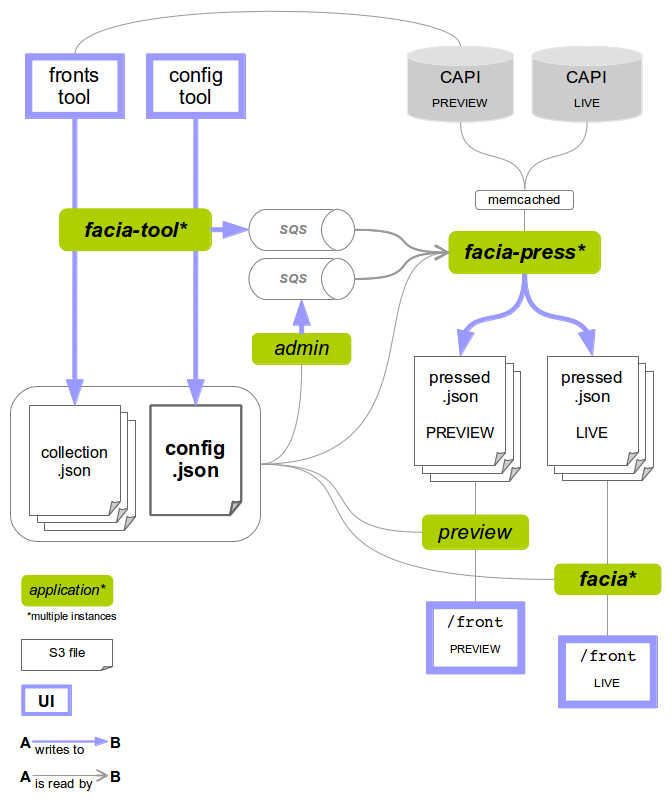
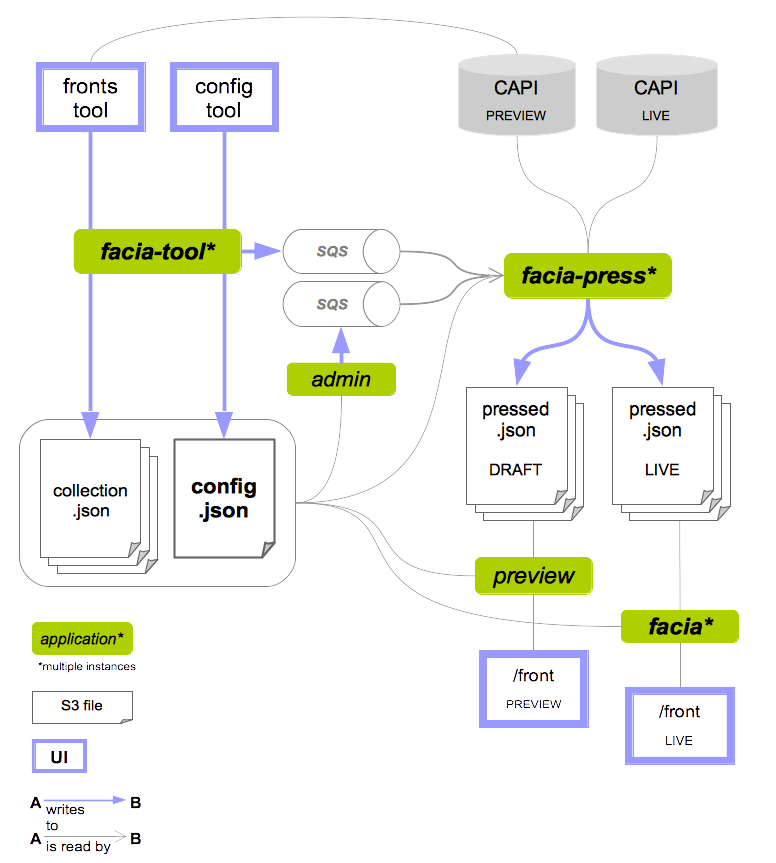
Update facia architecture documentation

diff --git a/docs/02-architecture/02-fronts-architecture.md b/docs/02-architecture/02-fronts-architecture.md
@@ -1,69 +1,110 @@
-# Fronts Architecture
+# Fronts architecture
 
 ![Fronts architecture](images/fronts-archirecture.png)
 
-The goal of the Fronts architecture is serve each front via a _single_ blocking call to a persitence layer.
+Rendering a front requires to fetch a lot of information from multiple sources (CAPI, Fronts config, Fronts collections). In order to avoid doing this grueling work inline when an user request is received, all data necessary to render a front is prefetched and aggregated in a single location (S3). 
 
-The system produces static aggregation files, offline, one for each front (`pressed.json`). Each file contains all the content required for one front; it is a complete snapshot of its required ContentApi data, structured by collection, and overlaid by the temporary fronts-only article metdata. Each fulfills the single call made by the Facia app in order to service a request for that front.
+In a nutshell:
+- [Facia press](#facia-press): for each front, fetch all necessary data, aggregate it and store it into S3
+- [Facia](#facia): read the aggregated data from S3 and render the front
 
-The global list of defined fronts - and the definitions of the collections on those fronts - is held in a single configuration file (`config.json`). This file is edited using the Configuration Tool. It is polled and referred to by each component in the architecture. 
+## Facia Press
+It is not an user facing service, it processes events published to queues.
+There are 2 queues:
+- one queue populated by a cron job running in the Admin app.
+- one queue where the Fronts tool (fronts.gutools.co.uk) publishes events to when a front is being updated.
+The cron job is very important since content for a front can be coming from CAPI and change without any update from the Fronts tool.
 
-The running order of articles in each collection - and various tweaks to those articles - are represented in multiple `collection.json` files. These are individually edited using the Fronts Tool and persisted to S3. These `collection.json` files dictate which articles need to be requested from the ContentApi during the production of each front's `pressed.json` files.
+### Pressing a front:
+Reacting to a new event published to the queues described above Facia-press then:
 
-As soon as a collection is edited, its id is added to a queue consumed the Presser, which will re-create a `pressed.json` file for any front containing that collection. Additionally, each front is periodically queued for re-pressing by the Admin app; fronts have differential rates of periodic re-pressing, to reflect their differing priorities.
+1. Get the collections that compose the front by fetching the Fronts config at `s3://facia-tool-store/STAGE/frontsapi/config/config.json` in the CMS Fronts account. This file is edited using the Configuration Tool
 
-The `pressed.json` files - one for each front - are persisted to S3. Both preview and live versions are produced.
+Example of a front config:
+```
+...
+"uk/business": {
+    "collections": [
+        "uk/business/regular-stories",
+        "uk/business/feature-stories",
+        "12554364-5a48-4e1a-a931-4dbcd144a12a",
+        "98257c5b-f7af-4238-994e-edfb17e3b16e",
+        "7aa73028-4e76-48d7-a44e-b62a15d36a65",
+        "uk/business/most-viewed/regular-stories",
+        "b5058768-e4a8-4e37-a61e-5f8e4df7f8fc"
+    ],
+    "webTitle": "Economy",
+    "title": "Latest financial, market & economic news and analysis | Business",
+    "description": "Latest financial, market &amp; economic news and analysis from The Guardian"
+}
+...
+```
 
-## Service Level Metrics & Alerts
+In the same file, here is an example of one collection config
+```
+"12554364-5a48-4e1a-a931-4dbcd144a12a": {
+    "displayName": "multimedia",
+    "type": "fixed/small/slow-I"
+}
+```
+Note: 
+- A collection type correspond to its layout.
+- Facia-press is using the [Facia scala client](https://github.com/guardian/facia-scala-client) to interact with the data store in the CMS Fronts bucket. (No direct call to S3)
 
-A large number of ContentApi requests are made in order to produce each front's `pressed.json` file. Due to this dependency, the Presser is the point in the architecture that has the most potential for failure. The metrics and alerts relate principally to its ongoing ability to produce `pressed.json` files.
+2. Get the curated stories/content for each collections of the fronts by fetching the collection data files at `s3://facia-tool-store/STAGE/frontsapi/collection/COLLECTION/ID/collection.json` in the CMS Fronts account. This file is edited using the Fronts Tool
 
-Some of the metrics are to designed to identify terminally unhealthy processes. Others are informational and indicate problems in the broader network (notably ContentApi). Others monitor the speed at which updates travel through the architecture.
+Each collection would contain the `id` and `metadata` for all their running stories that have been curated by editors using the Fronts tool.
+For each story, Facia-Press also fetches content details via CAPI
 
-### Succesive press failures - MANUAL presser (facia-tool)
+3. Get backfilled content.
 
-* __Detail__ : immediately after a collection is edited within the Fronts Editor, the Presser is invoked to re-create the `pressed.json` files for any front containing that collection.
+A collection can contain curated content (picked by editors using the Fronts tools) but can also be filled with stories coming from CAPI.  This can be configured using the Fronts tools.
 
-* __Metrics__  : if the number of *consecutive* failures of the Presser to produce `pressed.json` files exceeds N, the healthcheck fails. The failure count is reset by any successful pressing. 
+4. Get treats content
 
-* __Consequence__ : Instance terminates.
+A treat is a link that can be shown on the website in the bottom left corner of a collection container.
 
-### Succesive press failures - CRON presser (facia-press)
+5. Get SEO and properties
 
-* __Detail__ : every three minutes, the Admin app puts the ids of every front on an SQS queue. These are pulled in bunches (of up to 10) every 10 seconds by Presser instances, and `pressed.json` files are re-created for each front.
+This is an additional request to CAPI to fetch SEO and other metadata for the front page
 
-* __Metrics__  : if the number of *consecutive* failures of the Presser to produce `pressed.json` files exceeds N, the healthcheck fails. The failure count is reset by any successful pressing. 
+6. Finally aggregate all the data fetched in the previous steps and store the result in its json form in S3 (`s3://aws-frontend-store/STAGE/frontsapi/pressed/live/FRONTS/fapi/pressed.json in Frontend account`)
 
-* __Consequence__ : Instance terminates.
+## Facia
 
-### Statictical press failures - CRON presser (facia-press)
+As mentioned above when Facia receive a request for a front, it:
 
-* __Detail__ : due to momentary ContentApi unavailability or increased latency somewhere in the network - pressing will on occasion fail. Above a certain frequency, these failures should be considered as indicative of a operational issue.   
+1. fetches the "pressed" data from S3 (`s3://aws-frontend-store/STAGE/frontsapi/pressed/live/FRONTS/fapi/pressed.json in Frontend account`)
 
-* __Metrics__  : 50 failures within 15 minutes, monitored in CloudWatch.
+2. renders the front.
 
-* __Consequence__ : PagerDuty alarm
+Each front collection would be rendered into a `container`. A container is always full-width.
 
-### Statictical press failures - MANUAL presser (facia-tool)
+The collection type (ex: `fixed/medium/slow-VI`) would decide the type and layout of the container. See [here](https://github.com/guardian/frontend/blob/master/common/app/slices/FixedContainers.scala#L79) and [here](https://github.com/guardian/frontend/blob/master/common/app/slices/Container.scala#L9)
 
-* __Detail__ : due to momentary ContentApi unavailability or increased latency somewhere in the network - pressing will on occasion fail. Above a certain frequency, these failures should be considered as indicative of a operational issue.   
+Each container is composed of `slices` (aka "rows"). Each [Slice definition](https://github.com/guardian/frontend/blob/master/common/app/slices/Slice.scala) specifies columns info and css classname.
 
-* __Metrics__  : 50 failures within 15 minutes, monitored in CloudWatch. 
+Each row would contained cards.
 
-* __Consequence__ : PagerDuty alarm
+A card displays the information of one story/content.
 
-### ContentAPI invalid responses
+## Glossary:
 
-* __Detail__ : the Presser (and also the fronts tools) are dependent on ContentApi results being well-formed. Occasionally ContentApi returns intermittently malformed results.
+Here is the defition of a few words and expression related to fronts:
 
-* __Metrics__  : (a) 50 malformed results within 15 minutes, monitored in CloudWatch; (b) a single malformed result monitored by the facia-tool UI.
+_Snap_:
+A way to include arbitrary content into a collection (rather than a story). 
+A snap can be a link (often used to show an interactive on the front) or dynamic content (latest story for given tag)
 
-* __Consequence__ : (a) PagerDuty alarm; (b) a "red" alert in the UI with an option to "try again".
+_Trasher_:
+A type of container which contain a single full-width element
 
-### On edit, press within 10 seconds (not incl. cache time)
+_Dynamo_:
+A type of container often use to highlight a huge story. It's better known in the codebase as the `dynamic/package` collection type.
 
-* __Detail__ : The end-to-end process from invoking the Presser to producing a `pressed.json` file - after a collection is manually edited - should be under 10 seconds. (It typically takes about 3 seconds under normal network conditions.)
+_Groups_:
+A way to further tweak the layout of a collection. Dynamic collection can have multiple groups (standard/snaps or huge/veryBig/big/standard). Depending of the group a story/content is in, the layout of the container would be slightly altered.
 
-* __Metric__  : the difference between the most recent timestamp of a front's various `collection.json` files, and the timestamp of that front's `pressed.json` file. This is checked 10 seconds after any edit; the result itself should be below 10 seconds.
+## More
 
-* __Consequence__ : if the metric exceeds 10 seconds, an "orange" alert appears in the tool UI with an option to "try again". The condition occurs on occasion due to momentary high latency somewhere in network, and generally does not reproduce itself on retry.
+- [Facia Level Metrics & Alerts](facia/facia-monitoring.md)

diff --git a/docs/02-architecture/facia/facia-monitoring.md b/docs/02-architecture/facia/facia-monitoring.md
@@ -1,0 +1,53 @@
+# Facia Level Metrics & Alerts
+
+A large number of ContentApi requests are made in order to produce each front's `pressed.json` file. Due to this dependency, the Presser is the point in the architecture that has the most potential for failure. The metrics and alerts relate principally to its ongoing ability to produce `pressed.json` files.
+
+Some of the metrics are to designed to identify terminally unhealthy processes. Others are informational and indicate problems in the broader network (notably ContentApi). Others monitor the speed at which updates travel through the architecture.
+
+## Succesive press failures - MANUAL presser (facia-tool)
+
+* __Detail__ : immediately after a collection is edited within the Fronts Editor, the Presser is invoked to re-create the `pressed.json` files for any front containing that collection.
+
+* __Metrics__  : if the number of *consecutive* failures of the Presser to produce `pressed.json` files exceeds N, the healthcheck fails. The failure count is reset by any successful pressing. 
+
+* __Consequence__ : Instance terminates.
+
+## Succesive press failures - CRON presser (facia-press)
+
+* __Detail__ : every three minutes, the Admin app puts the ids of every front on an SQS queue. These are pulled in bunches (of up to 10) every 10 seconds by Presser instances, and `pressed.json` files are re-created for each front.
+
+* __Metrics__  : if the number of *consecutive* failures of the Presser to produce `pressed.json` files exceeds N, the healthcheck fails. The failure count is reset by any successful pressing. 
+
+* __Consequence__ : Instance terminates.
+
+## Statictical press failures - CRON presser (facia-press)
+
+* __Detail__ : due to momentary ContentApi unavailability or increased latency somewhere in the network - pressing will on occasion fail. Above a certain frequency, these failures should be considered as indicative of a operational issue.   
+
+* __Metrics__  : 50 failures within 15 minutes, monitored in CloudWatch.
+
+* __Consequence__ : PagerDuty alarm
+
+## Statictical press failures - MANUAL presser (facia-tool)
+
+* __Detail__ : due to momentary ContentApi unavailability or increased latency somewhere in the network - pressing will on occasion fail. Above a certain frequency, these failures should be considered as indicative of a operational issue.   
+
+* __Metrics__  : 50 failures within 15 minutes, monitored in CloudWatch. 
+
+* __Consequence__ : PagerDuty alarm
+
+## ContentAPI invalid responses
+
+* __Detail__ : the Presser (and also the fronts tools) are dependent on ContentApi results being well-formed. Occasionally ContentApi returns intermittently malformed results.
+
+* __Metrics__  : (a) 50 malformed results within 15 minutes, monitored in CloudWatch; (b) a single malformed result monitored by the facia-tool UI.
+
+* __Consequence__ : (a) PagerDuty alarm; (b) a "red" alert in the UI with an option to "try again".
+
+### On edit, press within 10 seconds (not incl. cache time)
+
+* __Detail__ : The end-to-end process from invoking the Presser to producing a `pressed.json` file - after a collection is manually edited - should be under 10 seconds. (It typically takes about 3 seconds under normal network conditions.)
+
+* __Metric__  : the difference between the most recent timestamp of a front's various `collection.json` files, and the timestamp of that front's `pressed.json` file. This is checked 10 seconds after any edit; the result itself should be below 10 seconds.
+
+* __Consequence__ : if the metric exceeds 10 seconds, an "orange" alert appears in the tool UI with an option to "try again". The condition occurs on occasion due to momentary high latency somewhere in network, and generally does not reproduce itself on retry.

diff --git a/docs/README.md b/docs/README.md
@@ -12,7 +12,7 @@
 
 ## [Architecture](02-architecture/)
 - [The different applications composing the Guardian website](02-architecture/01-applications-architecture.md)
-- [Fronts Architecture](02-architecture/02-fronts-architecture.md)
+- [Fronts architecture](02-architecture/02-fronts-architecture.md)
 - [Libraries we use](02-architecture/03-libraries-we-use.md)
 - [Archiving](02-architecture/04-archiving.md)
 - [Architecture principles for CSS](02-architecture/05-architecture-principles-for-css.md)
